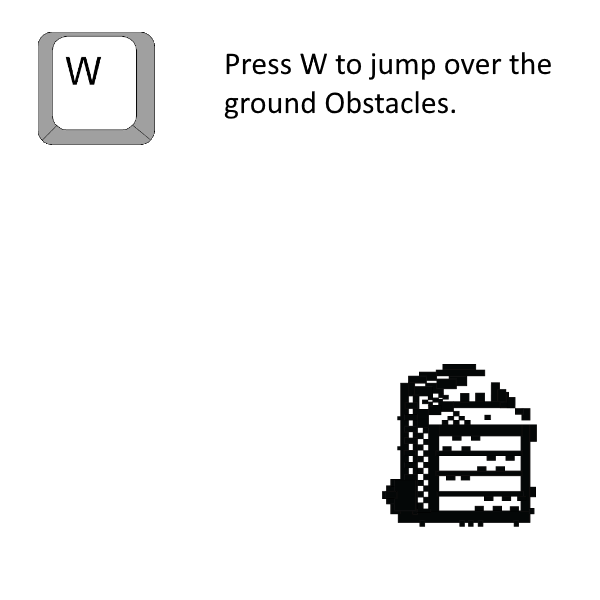
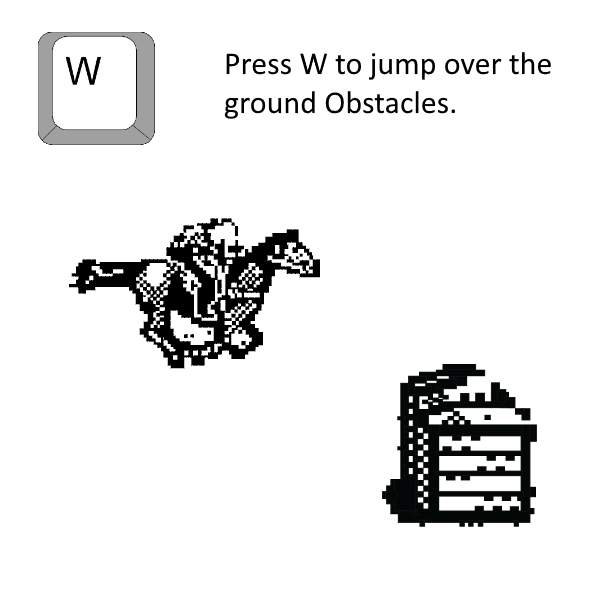
tweaked gameplay

Changed region(s): [[0.12, 0.36, 0.54, 0.63]]

diff --git a/src/Tutorial.js b/src/Tutorial.js
@@ -2,17 +2,16 @@ class Tutorial
 {
   constructor()
   {
+    this.initialise();
+  }
+
+  initialise()
+  {
+    //
     this.mainMenu = new Image();
 
     this.mainMenu.src = "resources/main_menu.png";
     this.clickDetection = new ClickDetection();
-
-    this.initialiseTutorial();
-  }
-
-  initialiseTutorial()
-  {
-    //
     this.player = new Player();
     //
     this.arrow = new EnemyBullet();
@@ -29,11 +28,26 @@ class Tutorial
     this.playerImg = new Image();
     this.playerImg.src = "resources/images/Player.png";
     //
+    this.duckingImg = new Image();
+    this.duckingImg.src = "resources/images/Playerducking.png";
+    //
+    this.blankImg = new Image();
+    this.blankImg.src = "resources/images/Blankplayer.png";
+    //
     this.bulletImg = new Image();
     this.bulletImg.src = "resources/images/PBullet.png";
     //
     this.projectileImgOne = new Image();
     this.projectileImgOne.src = "resources/images/Bullet.png";
+    //
+    this.arrowImgOne = new Image();
+    this.arrowImgOne.src = "resources/images/Arrowleft.png";
+    //
+    this.arrowImgTwo = new Image();
+    this.arrowImgTwo.src = "resources/images/Arrowright.png";
+    //
+    this.boulderImg = new Image();
+    this.boulderImg.src = "resources/images/Boulder.png"
     //
     this.obstacleImgOne = new Image();
     this.obstacleImgOne.src = "resources/images/Cactus.png";
@@ -41,100 +55,134 @@ class Tutorial
     this.obstacleImgTwo = new Image();
     this.obstacleImgTwo.src = "resources/images/Chest.png";
     //
-    this.bulletAttack = null;
-    this.eventTime = null;
-
     this.bulletAttack = 1;
-    this.eventTime = 0;
+    this.eventTime = 210;
+    this.nextEvent = false;
 
     //
-    this.arrow = new EnemyBullet(this.projectileImgOne, 1);
-    this.tomahawk = new EnemyBullet(this.projectileImgOne, 2);
-    this.boulder = new EnemyBullet(this.projectileImgOne, 3);
-    this.boulderTwo = new EnemyBullet(this.projectileImgOne, 4);
+    this.arrow = new EnemyBullet(this.arrowImgOne, 1);
+    this.tomahawk = new EnemyBullet(this.arrowImgTwo, 2);
+    this.boulder = new EnemyBullet(this.boulderImg, 3);
+    this.boulderTwo = new EnemyBullet(this.boulderImg, 4);
     //
     this.projectiles = [this.arrow, this.tomahawk, this.boulder, this.boulderTwo];
     //
     this.obstacle = new Obstacle(this.obstacleImgOne, 1);
     this.cactus = new Obstacle(this.obstacleImgOne, 1);
     this.chest = new Obstacle(this.obstacleImgTwo, 2);
-      //
+    //
     this.obstacles = [this.cactus, this.chest];
 
-
-
-    this.player = new Player(this.playerImg, this.bulletImg, this.projectiles[2], this.obstacle);
+    this.player = new Player(this.playerImg, this.duckingImg, this.blankImg, this.bulletImg, this.projectiles[2], this.obstacle);
   }
 
   update()
   {
-
     this.player.update();
-    //gameGlobal.game.obstacle.update();
-
-    // One arrow Event
-    if(this.bulletAttack === 1)
-    {
-      this.projectiles[0].update();
-    }
-    // One tomahawk Event
-    if(this.bulletAttack === 2)
-    {
-      this.projectiles[1].update();
-    }
-      // One boulder Event
-      if(this.bulletAttack === 3)
-      {
-        this.projectiles[2].update();
-      }
-      // One arrow and boulder Event
-      if(this.bulletAttack === 4)
-      {
-        this.projectiles[0].update();
-        this.projectiles[2].update();
-      }
-      // One cactus Event
-      if(this.bulletAttack === 5)
-      {
-        this.obstacles[0].update();
-      }
-      // One chest Event
-      if(this.bulletAttack === 6)
-      {
-        this.obstacles[1].update();
-      }
-
-      this.eventTime++;
-      //console.log(gameGlobal.game.eventTime);
-
-      //
-      if(this.eventTime >= 480)
-      {
-        this.bulletAttack = Math.floor((Math.random() * 6) + 1);
-
-        //
-        for(var i = 0; i < 4; i++)
-        {
-          this.projectiles[i].setValues();
-        }
-
-        //
-        for(var i = 0; i < 2; i++)
-        {
-          this.obstacles[i].setValues();
-        }
-
-        this.eventTime = 0;
-      }
-
+    this.player.setLives(4);
     if(this.clickDetection.isClicked())
     {
       if(this.checkCollisionBetween(this.clickDetection.getPosition(), 1620,700, 200,200))
       {
         this.clickDetection.reset();
-        this.initialiseTutorial();
+        this.initialise();
         gameGlobal.menuManager.setCurrentScene("Main Menu");
       }
+    }
+    // One tomahawk Event
+    if(this.bulletAttack === 1)
+    {
+      this.projectiles[0].update();
+    }
+    // One arrow Event
+    if(this.bulletAttack === 2)
+    {
+      this.projectiles[1].update();
+    }
+    // One boulder Event
+    if(this.bulletAttack === 3)
+    {
+      this.projectiles[2].update();
+    }
+    // One arrow and boulder Event
+    if(this.bulletAttack === 4)
+    {
+      this.projectiles[0].update();
+      this.projectiles[2].update();
+    }
+    // One cactus Event
+    if(this.bulletAttack === 5)
+    {
+      this.obstacles[0].update();
+    }
+    // One chest Event
+    if(this.bulletAttack === 6)
+    {
+      this.obstacles[1].update();
+    }
+
+    this.eventTime--;
+
+    //
+    for(var k = 0; k < 4; k++)
+    {
+      this.player.enemyBulletCollision(this.projectiles[k], this.nextEvent);
+      this.player.bullet.enemyBulletCollision(this.projectiles[k], this.nextEvent);
+    }
+    //
+    for(var l = 0; l < 2; l++)
+    {
+      this.player.obstacleCollision(this.obstacles[l], this.nextEvent);
+    }
+
+    //
+    if(this.eventTime <= 0 || this.nextEvent === true)
+    {
+      this.bulletAttack = Math.floor((Math.random() * 6) + 1);
+
+      //
+      for(var i = 0; i < 4; i++)
+      {
+        this.projectiles[i].setValues();
+      }
+
+      //
+      for(var j = 0; j < 2; j++)
+      {
+        this.obstacles[j].setValues();
+      }
+
+      // One tomahawk Event
+      if(this.bulletAttack === 1)
+      {
+        this.eventTime = 210;
+      }
+      // One arrow Event
+      if(this.bulletAttack === 2)
+      {
+        this.eventTime = 210;
+      }
+      // One boulder Event
+      if(this.bulletAttack === 3)
+      {
+        this.eventTime = 250;
+      }
+      // One arrow and boulder Event
+      if(this.bulletAttack === 4)
+      {
+        this.eventTime = 190;
+      }
+      // One cactus Event
+      if(this.bulletAttack === 5)
+      {
+        this.eventTime = 250;
+      }
+      // One chest Event
+      if(this.bulletAttack === 6)
+      {
+        this.eventTime = 250;
+      }
+      this.nextEvent = false;
     }
   }
 
@@ -149,12 +197,12 @@ class Tutorial
     }
 
     //
-    for(var i = 0; i < 2; i++)
+    for(var j = 0; j < 2; j++)
     {
-      this.obstacles[i].draw(ctx);
+      this.obstacles[j].draw(ctx);
     }
-
     ctx.drawImage(this.mainMenu, 1620,700, 200,200);
+
   }
 
   checkCollisionBetween(clickPos, x,y,width,height)

diff --git a/src/Player.js b/src/Player.js
@@ -23,7 +23,7 @@
     */
    constructor(texture, duckingText, blankText, bulletTexture, projectile, obstacle)
    {
-     this.x = 680;
+     this.x = 580;
      this.y = 600;
      //
      this.velY = 0;
@@ -83,6 +83,11 @@
 
        this.score++;
      }
+   }
+
+   getHits()
+   {
+     return this.hits;
    }
 
    /*
@@ -208,7 +213,7 @@
             this.y + this.texture.height > obstacle.y))
          {
            console.log("Collide!")
-           eventTime = true;
+           nextEvent = true;
            this.hits -= 1;
            this.knockeddown = true;
          }// End if
@@ -230,7 +235,7 @@
      ctx.fillStyle = "black";
      ctx.font = "30px Verdana";
      ctx.fillText("Score: " + this.score, 50, 780);
-     ctx.fillText("Lives: " + this.hits, 1550, 780);
+     ctx.fillText("Lives: " + this.hits, 1450, 780);
    }
 
    /*
@@ -279,6 +284,11 @@
        this.invincibilityTime = 0;
        this.iFrameTime = 0;
      }
+   }
+
+   setLives(newLives)
+   {
+     this.hits = newLives;
    }
 
  }

diff --git a/src/Options.js b/src/Options.js
@@ -24,7 +24,7 @@ class Options
         gameGlobal.menuManager.setCurrentScene("Main Menu");
       }
 
-      if(this.checkCollisionBetween(this.clickDetection.getPosition(), 1200, 400, 200, 200))
+      if(this.checkCollisionBetween(this.clickDetection.getPosition(), 900, 425, 100, 100))
       {
         console.log("change");
         this.toggleActive();
@@ -46,11 +46,11 @@ class Options
       ctx.fillStyle = this.black;
     }
 
-    ctx.fillRect(1200, 400, 200, 200);
+    ctx.fillRect(900, 425, 100, 100);
 
-    ctx.font = "30px Arial";
+    ctx.font = "70px Arial";
     ctx.fillStyle = this.black;
-    ctx.fillText("Toggle Tips", 1000, 500);
+    ctx.fillText("Toggle Tips", 500, 500);
   }
 
   checkCollisionBetween(clickPos, x,y,width,height)

diff --git a/src/Play.js b/src/Play.js
@@ -75,7 +75,11 @@ class Play
   update()
   {
     this.player.update();
-
+    if(this.player.getHits() === 0)
+    {
+      this.initialise();
+      gameGlobal.menuManager.setCurrentScene("Main Menu");
+    }
     // One tomahawk Event
     if(this.bulletAttack === 1)
     {
@@ -139,9 +143,6 @@ class Play
       {
         this.obstacles[j].setValues();
       }
-
-
-
       // One tomahawk Event
       if(this.bulletAttack === 1)
       {
@@ -175,7 +176,6 @@ class Play
 
       this.nextEvent = false;
     }
-
   }
 
   render(ctx)
